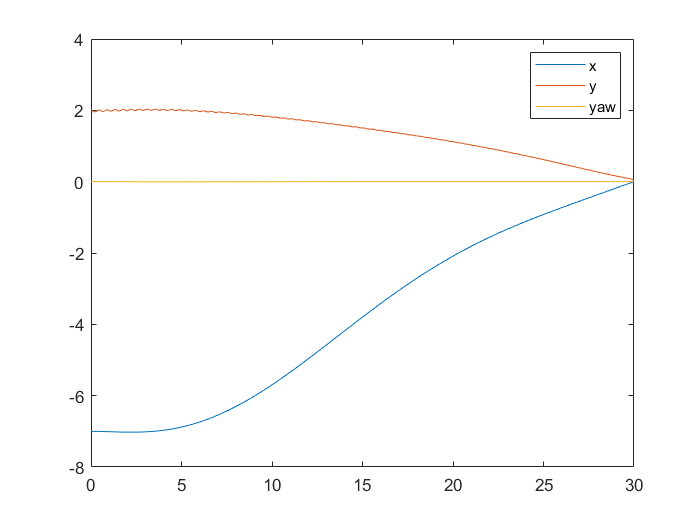
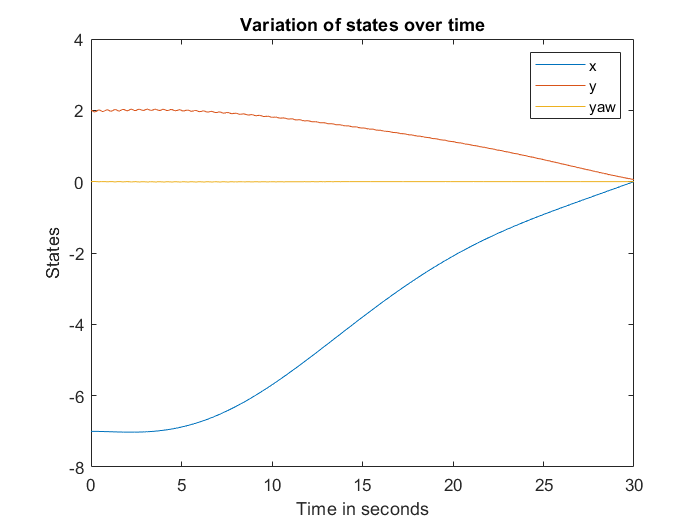
changes made

Changed region(s): [[0.33, 0.0305, 0.69, 0.061], [0.42, 0.9448, 0.63, 1.0], [0.06, 0.4267, 0.09, 0.5486]]

diff --git a/quad_traj_track2.m b/quad_traj_track2.m
@@ -2,7 +2,7 @@ addpath('ddp_quad\')
 addpath('utils\')
 
 % boundary conditions in state space
-x0 = [-7; 2; 0; 0; 0; 0];
+x0 = [-7; 2; pi/12; 0; 0; 0];
 xf = [0; 0; 0; 0; 0; 0];
 T = 30;
 S.T = T;
@@ -72,6 +72,9 @@ hold on
 plot(ts, xas(:,2))
 plot(ts, xas(:,3))
 legend('x', 'y', 'yaw')
+title('Variation of states over time')
+xlabel('Time in seconds'); ylabel('States');
+hold off
 
 % end
 %%%%%%%%%%%%%%%%%%%%%%%%%%%%%%%%%%%%%%%%%%%%

diff --git a/ddp_quad/ddp_quad_obst_nl.m b/ddp_quad/ddp_quad_obst_nl.m
@@ -2,11 +2,10 @@ function f = ddp_quad_obst_nl(initState, tf)
 
     if nargin < 2
         initState = [-5; -5; 3.5];
-        tf = 10;
+        tf = 30;
     end
 
     % time horizon and segments
-    tf = 30;
     S.N = 1000;
     S.h = tf/S.N;
     
